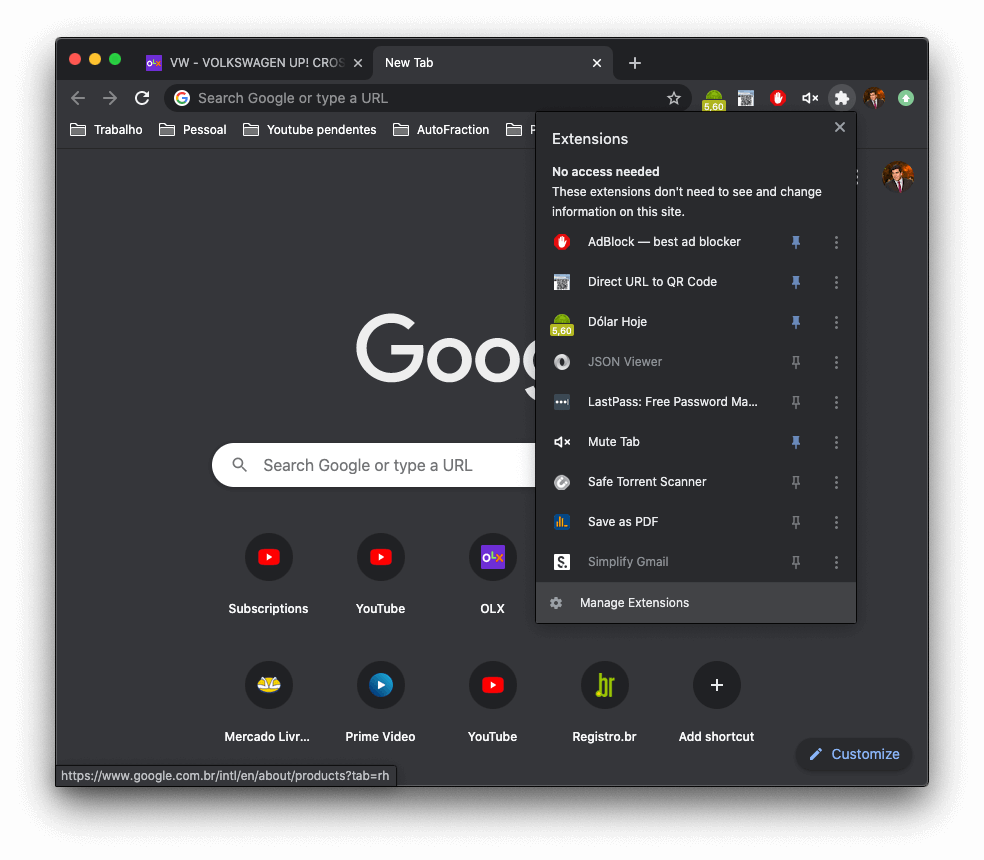
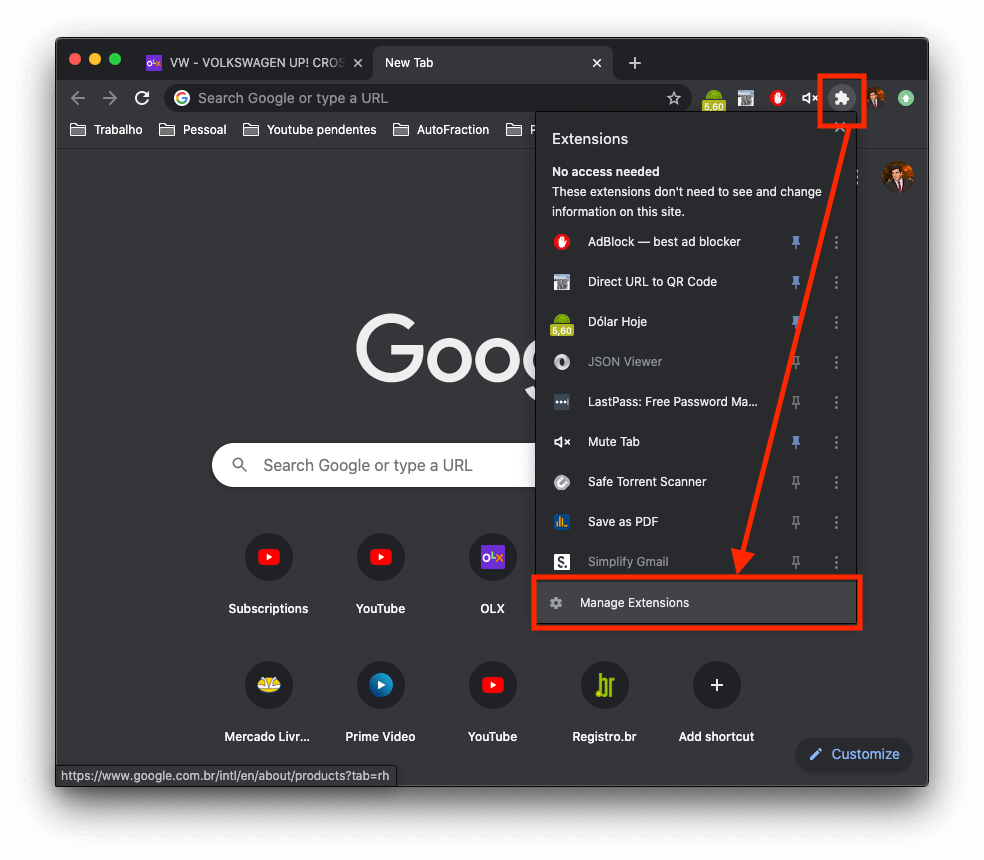
Inclusão de instruções no readme

diff --git a/README.md b/README.md
@@ -19,3 +19,16 @@ Basta clicar no icone da extensão e o perfil do vendedor estará escondido por 
 PS: Não publiquei, por ser algo que não vai me retornar nenhum lucro. A ideia é ajudar os editores da AutoSuper, como é algo específico demais e não vou ter usuários para justificar o custo de U$5, achei melhor apenas disponibilizar a extensão para instalação local. =D
 
 
+
+### Passos para instalar:
+1. Abrir o menu de extensões do chrome e clicar em gerenciar extensões
+![Abrir extensions menu](./assetsReadme/manage-extensions.png)
+
+2. Ativar modo de desenvolvedor, no canto superior direito
+![Dev Mode](./assetsReadme/active-dev-mode.png)
+
+3. Arrastar e soltar extensão (arrastar toda a pasta extension, que contém os arquivos necessários para a instalação)
+![Drag and drop extension](./assetsReadme/install-extension-drag-and-drop.png)
+
+4. Pinar extensão para facilitar o uso.
+![Pin extension](./assetsReadme/pin-extension.png)
